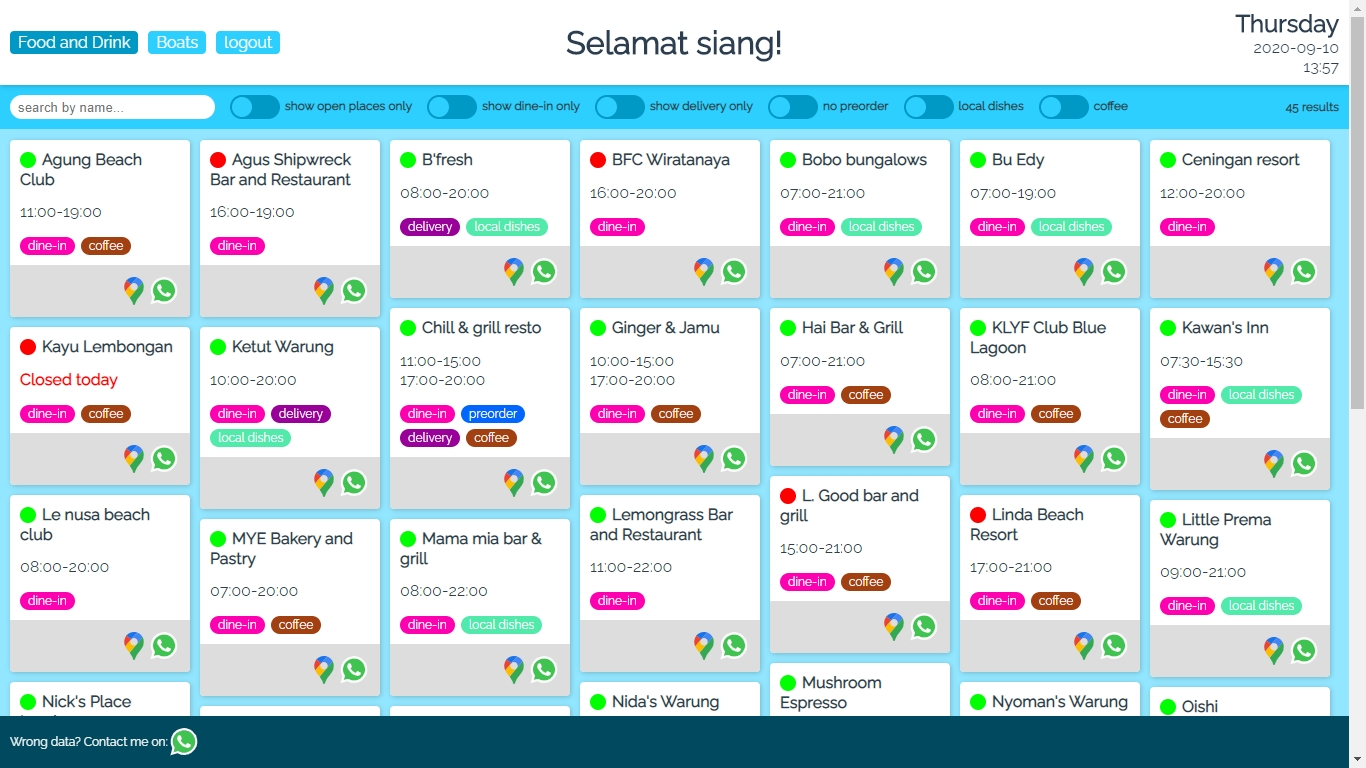
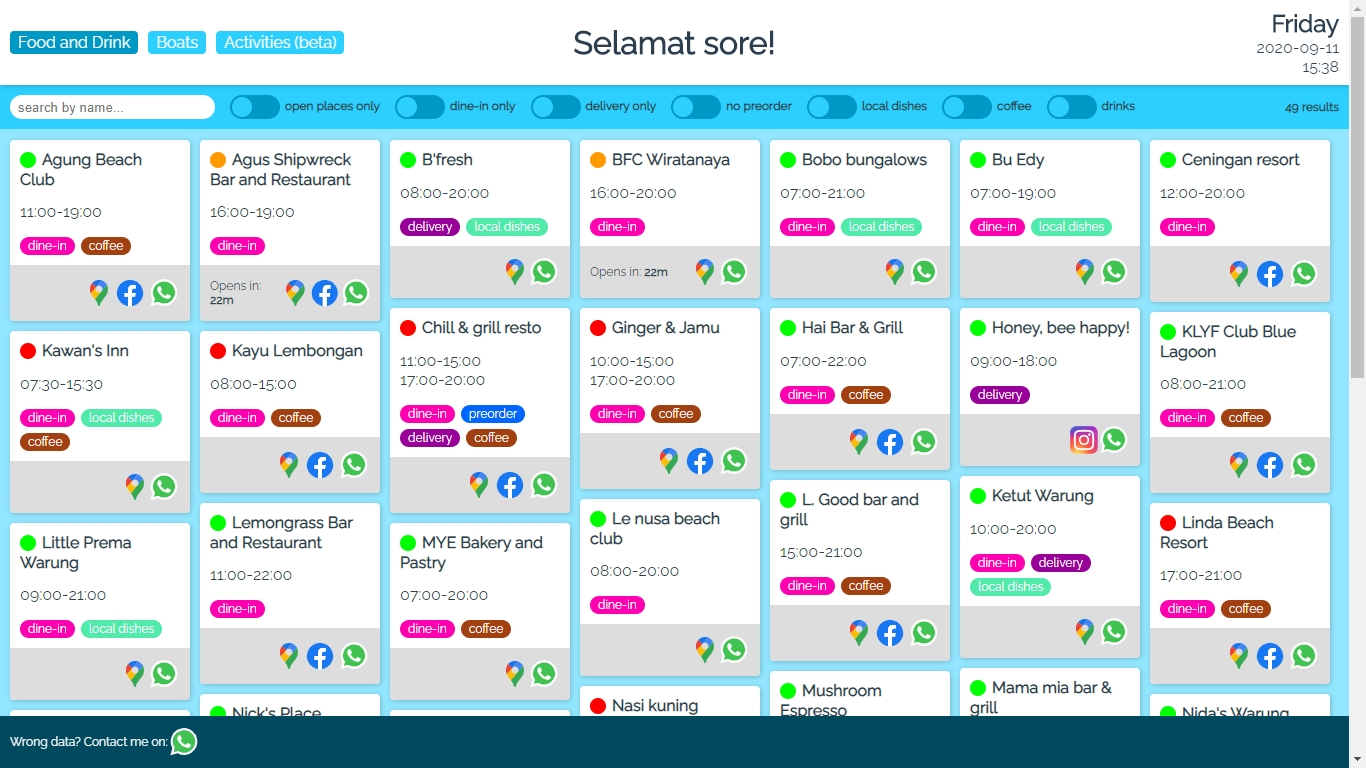
Style fine tune, replace preview

diff --git a/src/views/Activities.vue b/src/views/Activities.vue
@@ -79,7 +79,7 @@
 
           .weekdays.reservation(v-else)
             a.button(v-if="place.contact" :href="waUrl(place.contact)" target="_blank")
-             span contact for reservation
+             span contact for details
              .wa
 
           .info
@@ -91,7 +91,7 @@
             span.chip.snorkeling(v-if="place.snorkeling") snorkeling
             span.chip.fishing(v-if="place.fishing") fishing
             span.chip.tour(v-if="place.tour") tour
-            span.chip.reservation(v-if="place.reservation") reservation
+            //- span.chip.reservation(v-if="place.reservation") reservation
 
         .footer
           .status

diff --git a/src/assets/styles/main.scss b/src/assets/styles/main.scss
@@ -89,6 +89,10 @@ header {
       &.active {
         transform: translateX(-10px);
       }
+
+      a:last-child {
+        margin-right: 0;
+      }
     }
   }
   .greeting {
@@ -122,8 +126,8 @@ header {
 }
 
 .mobile-nav-open {
-  .placelist {
-    transform: translateY(315px);
+  .tile-list {
+    transform: translateY(349px);
   }
 }
 .fade-enter-active,

diff --git a/src/App.vue b/src/App.vue
@@ -17,7 +17,6 @@
             router-link(to="/boats") Boats
             router-link(to="/activities") Activities (beta)
             a(v-if="userProfile.email" @click="logout") logout
-            //- pre {{userProfile.email }}
 
           .greeting
             h1 Selamat {{ partOfTheDay }}!

diff --git a/src/assets/styles/_tiles.scss b/src/assets/styles/_tiles.scss
@@ -85,9 +85,9 @@
         color: white;
         display: flex;
         width: 100%;
-        // text-align: center;
         justify-content: space-between;
         align-items: center;
+        padding: 4px 8px;
 
         span {
           font-size: 12px;
